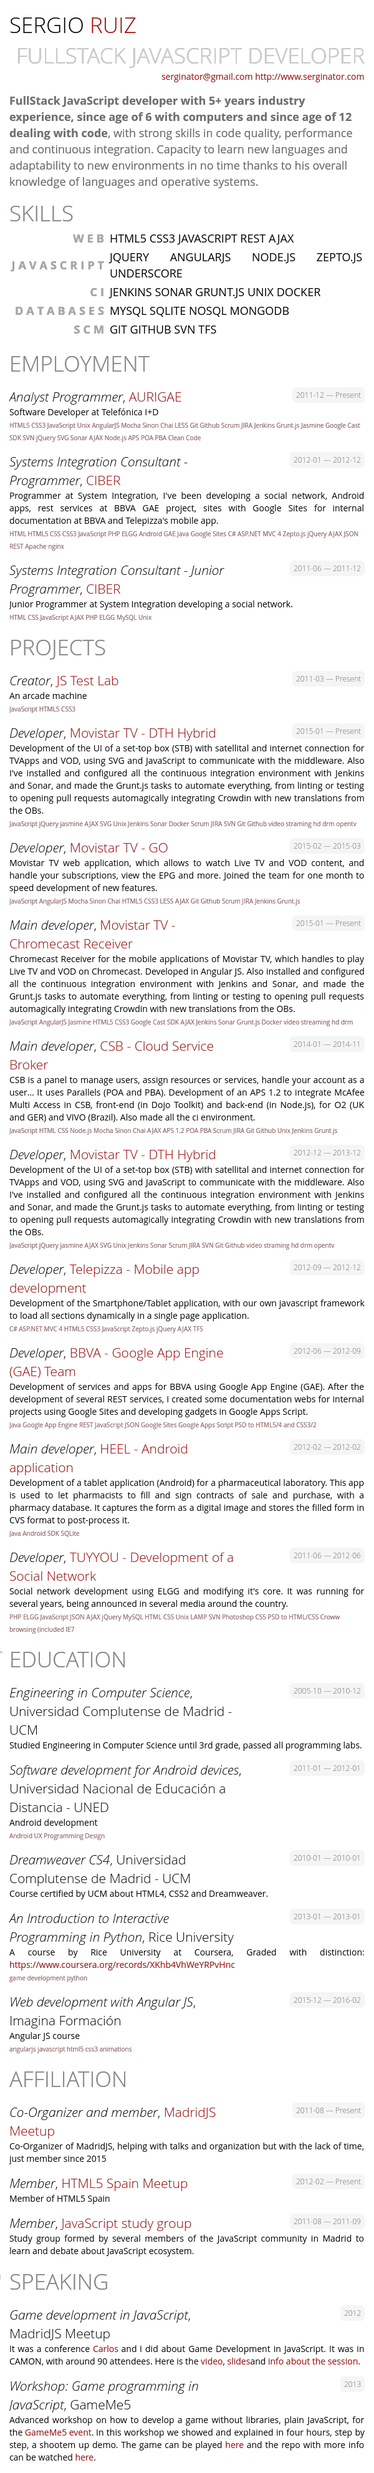
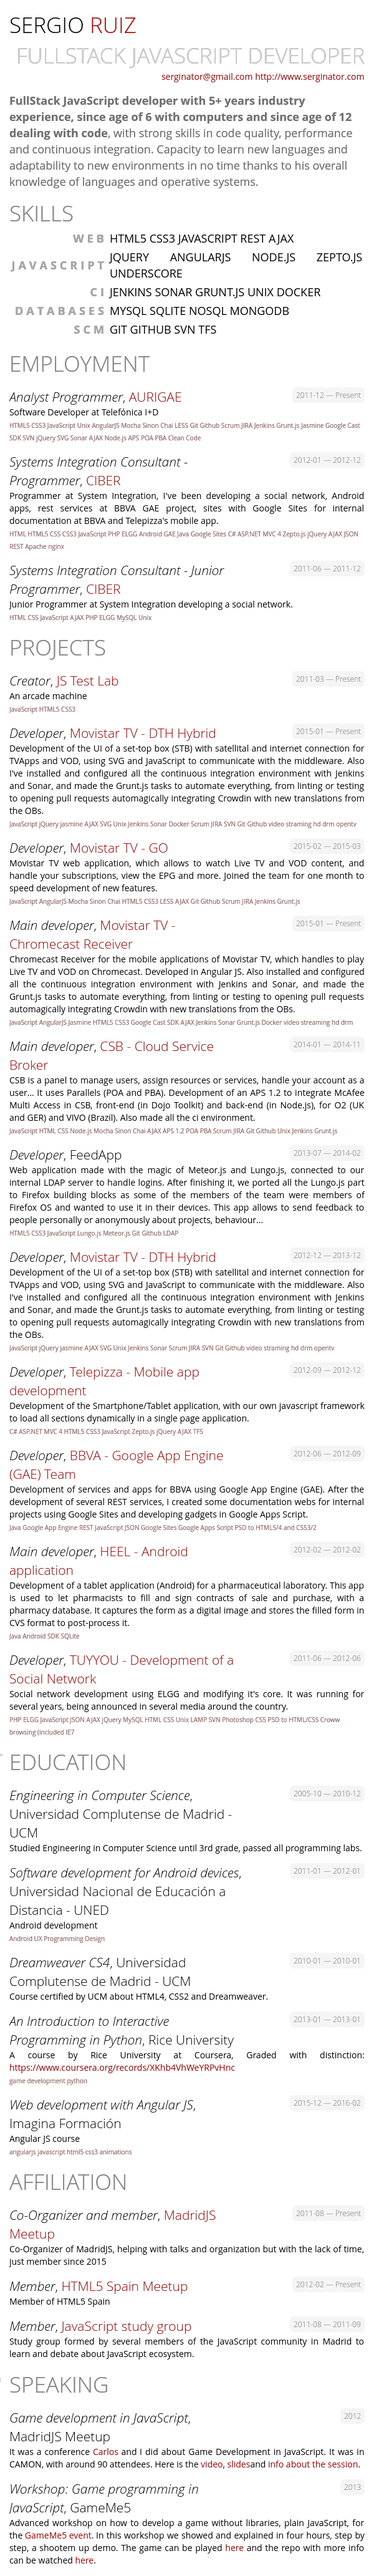
Added Feedapp project

diff --git a/out/resume.html b/out/resume.html
@@ -332,6 +332,19 @@
                 </div>
                 <div>
                      <h3><em>Developer</em>,
+          FeedApp
+          </h3>
+ <span class="tenure">2013-07 — 2014-02</span>
+
+                    <p>Web application made with the magic of Meteor.js and Lungo.js, connected
+                        to our internal LDAP server to handle logins. After finishing it, we ported
+                        all the Lungo.js part to Firefox building blocks as some of the members
+                        of the team were members of Firefox OS and wanted to use it in their devices.
+                        This app allows to send feedback to people personally or anonymously about
+                        projects, behaviour...</p> <span class="keywords">HTML5 CSS3 JavaScript Lungo.js Meteor.js Git Github LDAP </span> 
+                </div>
+                <div>
+                     <h3><em>Developer</em>,
           <a href="http://www.movistar.com">Movistar TV - DTH Hybrid</a>
           </h3>
  <span class="tenure">2012-12 — 2013-12</span>

diff --git a/out/resume.png.html b/out/resume.png.html
@@ -332,6 +332,19 @@
                 </div>
                 <div>
                      <h3><em>Developer</em>,
+          FeedApp
+          </h3>
+ <span class="tenure">2013-07 — 2014-02</span>
+
+                    <p>Web application made with the magic of Meteor.js and Lungo.js, connected
+                        to our internal LDAP server to handle logins. After finishing it, we ported
+                        all the Lungo.js part to Firefox building blocks as some of the members
+                        of the team were members of Firefox OS and wanted to use it in their devices.
+                        This app allows to send feedback to people personally or anonymously about
+                        projects, behaviour...</p> <span class="keywords">HTML5 CSS3 JavaScript Lungo.js Meteor.js Git Github LDAP </span> 
+                </div>
+                <div>
+                     <h3><em>Developer</em>,
           <a href="http://www.movistar.com">Movistar TV - DTH Hybrid</a>
           </h3>
  <span class="tenure">2012-12 — 2013-12</span>

diff --git a/out/resume.pdf.html b/out/resume.pdf.html
@@ -296,6 +296,15 @@ header > span.fa {
           </div>
           <div>
           <h3><em>Developer</em>,
+          FeedApp
+          </h3>
+          <span class="tenure">2013-07 — 2014-02</span>
+          <p>Web application made with the magic of Meteor.js and Lungo.js, connected to our internal LDAP server to handle logins. After finishing it, we ported all the Lungo.js part to Firefox building blocks as some of the members of the team were members of Firefox OS and wanted to use it in their devices. This app allows to send feedback to people personally or anonymously about projects, behaviour...</p>
+      
+          <span class="keywords">HTML5 CSS3 JavaScript Lungo.js Meteor.js Git Github LDAP </span>    
+          </div>
+          <div>
+          <h3><em>Developer</em>,
           <a href="http://www.movistar.com">Movistar TV - DTH Hybrid</a>
           </h3>
           <span class="tenure">2012-12 — 2013-12</span>

diff --git a/out/resume.md b/out/resume.md
@@ -56,6 +56,11 @@ Chromecast Receiver for the mobile applications of Movistar TV, which handles to
 CSB is a panel to manage users, assign resources or services, handle your account as a user... It uses Parallels (POA and PBA).
 CSB is a panel to manage users, assign resources or services, handle your account as a user... It uses Parallels (POA and PBA). Development of an APS 1.2 to integrate McAfee Multi Access in CSB, front-end (in Dojo Toolkit) and back-end (in Node.js), for O2 (UK and GER) and VIVO (Brazil). Also made all the ci environment.
 
+### *Developer*, FeedApp (2013-07 — 2014-02)
+
+Web application connected to internal LDAP server which allows to send feedback to people personally or anonymously about projects, behaviour...
+Web application made with the magic of Meteor.js and Lungo.js, connected to our internal LDAP server to handle logins. After finishing it, we ported all the Lungo.js part to Firefox building blocks as some of the members of the team were members of Firefox OS and wanted to use it in their devices. This app allows to send feedback to people personally or anonymously about projects, behaviour...
+
 ### *Developer*, [Movistar TV - DTH Hybrid](http://www.movistar.com) (2012-12 — 2013-12)
 
 A set-top box (STB) with satellital and internet connection for TVApps and VOD
